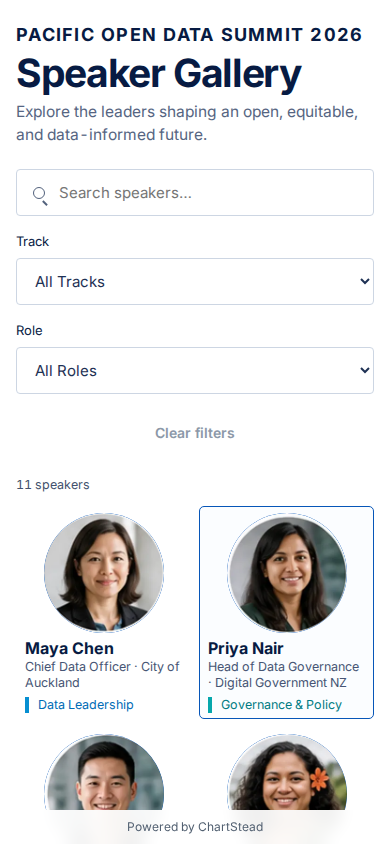
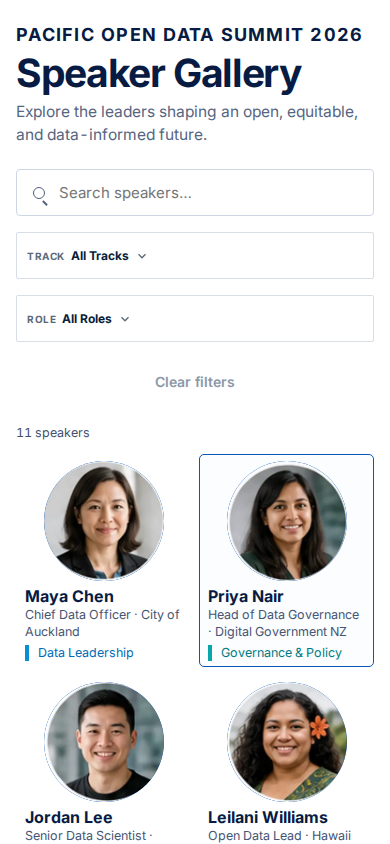
Use Base UI selects across public embeds

diff --git a/src/PublicProgramRenderer.tsx b/src/PublicProgramRenderer.tsx
@@ -467,117 +467,21 @@ export function PublicProgramRenderer({
             }
           />
         </label>
-        {currentWidget !== "sessions" ? <label>
-          Day
-          <select
-            id="program-day-filter"
-            value={filters.day ?? ""}
-            onChange={(event) =>
-              setFilters((current) => ({
-                ...current,
-                day: event.target.value || undefined,
-              }))
-            }
-          >
-            <option value="">All days</option>
-            {days.map((day) => (
-              <option key={day} value={day}>
-                {day === "tbd" ? "Time TBD" : dayLabel(day)}
-              </option>
-            ))}
-          </select>
-        </label> : null}
+        {currentWidget !== "sessions" ? <AppSelect label="Day" value={filters.day ?? ""} options={[{ value: "", label: "All days" }, ...days.map((day) => ({ value: day, label: day === "tbd" ? "Time TBD" : dayLabel(day) }))]} onValueChange={(value) => setFilters((current) => ({ ...current, day: value || undefined }))} /> : null}
         {currentWidget === "sessions" ? <AppSelect
           label="Track"
           value={filters.trackId ?? ""}
           options={[{ value: "", label: "All tracks" }, ...data.event.tracks.map((track) => ({ value: track.id, label: track.name }))]}
           onValueChange={(value) => setFilters((current) => ({ ...current, trackId: value || undefined }))}
-        /> : <label>
-          Track
-          <select
-            id="program-track-filter"
-            value={filters.trackId ?? ""}
-            onChange={(event) =>
-              setFilters((current) => ({
-                ...current,
-                trackId: event.target.value || undefined,
-              }))
-            }
-          >
-            <option value="">All tracks</option>
-            {data.event.tracks.map((track) => (
-              <option key={track.id} value={track.id}>
-                {track.name}
-              </option>
-            ))}
-          </select>
-        </label>}
-        {currentWidget !== "sessions" ? <label>
-          Location
-          <select
-            id="program-location-filter"
-            value={filters.roomId ?? ""}
-            onChange={(event) =>
-              setFilters((current) => ({
-                ...current,
-                roomId: event.target.value || undefined,
-              }))
-            }
-          >
-            <option value="">All rooms</option>
-            {data.event.rooms.map((room) => (
-              <option key={room.id} value={room.id}>
-                {room.name}
-              </option>
-            ))}
-            <option value="tbd">Location pending</option>
-          </select>
-        </label> : null}
+        /> : <AppSelect label="Track" value={filters.trackId ?? ""} options={[{ value: "", label: "All tracks" }, ...data.event.tracks.map((track) => ({ value: track.id, label: track.name }))]} onValueChange={(value) => setFilters((current) => ({ ...current, trackId: value || undefined }))} />}
+        {currentWidget !== "sessions" ? <AppSelect label="Location" value={filters.roomId ?? ""} options={[{ value: "", label: "All rooms" }, ...data.event.rooms.map((room) => ({ value: room.id, label: room.name })), { value: "tbd", label: "Location pending" }]} onValueChange={(value) => setFilters((current) => ({ ...current, roomId: value || undefined }))} /> : null}
         {currentWidget === "sessions" ? <AppSelect
           label="Session type"
           value={filters.format ?? ""}
           options={[{ value: "", label: "All session types" }, ...formats.map((format) => ({ value: format, label: format }))]}
           onValueChange={(value) => setFilters((current) => ({ ...current, format: value || undefined }))}
-        /> : <label>
-          Format
-          <select
-            id="program-format-filter"
-            value={filters.format ?? ""}
-            onChange={(event) =>
-              setFilters((current) => ({
-                ...current,
-                format: event.target.value || undefined,
-              }))
-            }
-          >
-            <option value="">All formats</option>
-            {formats.map((format) => (
-              <option key={format} value={format}>
-                {format}
-              </option>
-            ))}
-          </select>
-        </label>}
-        {currentWidget !== "sessions" ? <label>
-          Speaker
-          <select
-            id="program-speaker-filter"
-            value={filters.speakerId ?? ""}
-            onChange={(event) =>
-              setFilters((current) => ({
-                ...current,
-                speakerId: event.target.value || undefined,
-              }))
-            }
-          >
-            <option value="">All speakers</option>
-            {data.speakers.map((speaker) => (
-              <option key={speaker.id} value={speaker.id}>
-                {speaker.name}
-              </option>
-            ))}
-          </select>
-        </label> : null}
+        /> : <AppSelect label="Format" value={filters.format ?? ""} options={[{ value: "", label: "All formats" }, ...formats.map((format) => ({ value: format, label: format }))]} onValueChange={(value) => setFilters((current) => ({ ...current, format: value || undefined }))} />}
+        {currentWidget !== "sessions" ? <AppSelect label="Speaker" value={filters.speakerId ?? ""} options={[{ value: "", label: "All speakers" }, ...data.speakers.map((speaker) => ({ value: speaker.id, label: speaker.name }))]} onValueChange={(value) => setFilters((current) => ({ ...current, speakerId: value || undefined }))} /> : null}
         {currentWidget === "sessions" ? <Button type="button" className="sessions-clear" onClick={() => setFilters(() => ({}))}>Clear filters</Button> : null}
       </section>}
 
@@ -729,7 +633,7 @@ function AgendaEmbedView({
 }
 
 function AgendaSelect({ label, value, options, all, onChange }: { label: string; value: string; options: string[][]; all: string; onChange: (value: string) => void }) {
-  return <label className="agenda-select"><span>{label}</span><select aria-label={label} value={value} onChange={(event) => onChange(event.target.value)}><option value="">{all}</option>{options.map(([optionValue, optionLabel]) => <option key={optionValue} value={optionValue}>{optionLabel}</option>)}</select></label>;
+  return <div className="agenda-select"><AppSelect label={label} value={value} options={[{ value: "", label: all }, ...options.map(([optionValue, optionLabel]) => ({ value: optionValue ?? "", label: optionLabel ?? optionValue ?? "" }))]} onValueChange={onChange} /></div>;
 }
 
 function SignalRailGallery({ data, mode, theme, fields, filters, speakers, selectedSpeaker, onSetFilters, onSelectSpeaker, onSelectSession }: {
@@ -751,8 +655,8 @@ function SignalRailGallery({ data, mode, theme, fields, filters, speakers, selec
         </header>
         <section className="signal-gallery-filters" aria-label="Program filters">
           <label className="signal-search"><span className="sr-only">Search speakers</span><input type="search" value={filters.query ?? ""} placeholder="Search speakers…" onChange={(event) => onSetFilters((current) => ({ ...current, query: event.target.value || undefined }))} /></label>
-          <label>Track<select value={filters.trackId ?? ""} onChange={(event) => onSetFilters((current) => ({ ...current, trackId: event.target.value || undefined }))}><option value="">All Tracks</option>{data.event.tracks.map((track) => <option key={track.id} value={track.id}>{track.name}</option>)}</select></label>
-          <label>Role<select value={filters.role ?? ""} onChange={(event) => onSetFilters((current) => ({ ...current, role: event.target.value || undefined }))}><option value="">All Roles</option>{Array.from(new Set(data.speakers.map((speaker) => speaker.title).filter(Boolean))).map((role) => <option key={role} value={role ?? ""}>{role}</option>)}</select></label>
+          <AppSelect label="Track" value={filters.trackId ?? ""} options={[{ value: "", label: "All Tracks" }, ...data.event.tracks.map((track) => ({ value: track.id, label: track.name }))]} onValueChange={(value) => onSetFilters((current) => ({ ...current, trackId: value || undefined }))} />
+          <AppSelect label="Role" value={filters.role ?? ""} options={[{ value: "", label: "All Roles" }, ...Array.from(new Set(data.speakers.map((speaker) => speaker.title).filter(Boolean))).map((role) => ({ value: role ?? "", label: role ?? "" }))]} onValueChange={(value) => onSetFilters((current) => ({ ...current, role: value || undefined }))} />
           <Button type="button" className="signal-clear-filters" disabled={!filters.query && !filters.trackId && !filters.role} onClick={() => onSetFilters(() => ({}))}>Clear filters</Button>
         </section>
         <p className="signal-gallery-count" role="status" aria-live="polite">{speakers.length} {countNoun(speakers.length, "speaker")}</p>
@@ -825,9 +729,9 @@ function IndexedItinerary({ data, sessions, filters, setFilters, days, formats, 
       <section className="itinerary-controls" aria-label="Program filters">
         <div className="itinerary-days" role="tablist" aria-label="Event day">{days.filter((day) => day !== "tbd").map((day) => <Button role="tab" aria-selected={activeDay === day} key={day} className={activeDay === day ? "is-active" : ""} onClick={() => update("day", day)}>{dayLabel(day)}</Button>)}</div>
         <label className="itinerary-search"><span aria-hidden="true">⌕</span><span className="sr-only">Search sessions or speakers</span><input type="search" value={filters.query ?? ""} placeholder="Search sessions, speakers, topics..." onChange={(event) => update("query", event.target.value)} /></label>
-        <label><span className="sr-only">Track</span><select aria-label="Track" value={filters.trackId ?? ""} onChange={(event) => update("trackId", event.target.value)}><option value="">Track</option>{data.event.tracks.map((track) => <option key={track.id} value={track.id}>{track.name}</option>)}</select></label>
-        <label><span className="sr-only">Location</span><select aria-label="Location" value={filters.roomId ?? ""} onChange={(event) => update("roomId", event.target.value)}><option value="">Room</option>{data.event.rooms.map((room) => <option key={room.id} value={room.id}>{room.name}</option>)}<option value="tbd">Location pending</option></select></label>
-        <label><span className="sr-only">Format</span><select aria-label="Format" value={filters.format ?? ""} onChange={(event) => update("format", event.target.value)}><option value="">Session type</option>{formats.map((format) => <option key={format}>{format}</option>)}</select></label>
+        <AppSelect label="Track" value={filters.trackId ?? ""} options={[{ value: "", label: "Track" }, ...data.event.tracks.map((track) => ({ value: track.id, label: track.name }))]} onValueChange={(value) => update("trackId", value)} hideLabel />
+        <AppSelect label="Location" value={filters.roomId ?? ""} options={[{ value: "", label: "Room" }, ...data.event.rooms.map((room) => ({ value: room.id, label: room.name })), { value: "tbd", label: "Location pending" }]} onValueChange={(value) => update("roomId", value)} hideLabel />
+        <AppSelect label="Format" value={filters.format ?? ""} options={[{ value: "", label: "Session type" }, ...formats.map((format) => ({ value: format, label: format }))]} onValueChange={(value) => update("format", value)} hideLabel />
         <Button className="itinerary-clear" type="button" onClick={clearFilters}>Clear filters</Button>
       </section>
       {sessions.length === 0 ? <p className="itinerary-empty" role="status">No sessions match these filters.</p> : <div className="itinerary-grid-wrap">

diff --git a/test/ui/public-program.test.tsx b/test/ui/public-program.test.tsx
@@ -1,4 +1,4 @@
-import { cleanup, render, screen, within } from "@testing-library/react";
+import { cleanup, render, screen, waitFor, within } from "@testing-library/react";
 import userEvent from "@testing-library/user-event";
 import { QueryClient, QueryClientProvider } from "@tanstack/react-query";
 import {
@@ -135,6 +135,14 @@ afterEach(() => {
   vi.unstubAllGlobals();
 });
 
+async function chooseOption(user: ReturnType<typeof userEvent.setup>, label: string, option: string) {
+  const trigger = screen.getByRole("combobox", { name: label });
+  await waitFor(() => expect(trigger).toHaveAttribute("aria-expanded", "false"));
+  await user.click(trigger);
+  await user.click(await screen.findByRole("option", { name: option }));
+  await waitFor(() => expect(trigger).toHaveAttribute("aria-expanded", "false"));
+}
+
 describe("PublicProgramRenderer", () => {
   it("keeps itinerary state controlled across sessions, agenda, and itinerary widgets", async () => {
     const user = userEvent.setup();
@@ -215,11 +223,11 @@ describe("PublicProgramRenderer", () => {
     expect(screen.getByRole("group", { name: "Event day" })).toBeInTheDocument();
     expect(screen.getByRole("button", { name: /Save Opening Keynote to itinerary/ })).toHaveAttribute("aria-pressed", "false");
 
-    await user.selectOptions(screen.getByLabelText("Track"), "platform");
+    await chooseOption(user, "Track", "Platform");
     expect(screen.getByText("Opening Keynote")).toBeInTheDocument();
     expect(screen.queryByText("Community Circle")).not.toBeInTheDocument();
     await user.click(screen.getByRole("button", { name: "Clear filters" }));
-    expect(screen.getByLabelText("Track")).toHaveValue("");
+    expect(screen.getByRole("combobox", { name: "Track" })).toHaveTextContent("All");
     expect(screen.getByText("Opening Keynote")).toBeInTheDocument();
   });
 
@@ -234,9 +242,9 @@ describe("PublicProgramRenderer", () => {
     await user.click(save);
     expect(save).toHaveAttribute("aria-pressed", "true");
 
-    await user.selectOptions(screen.getByLabelText("Track"), "community");
+    await chooseOption(user, "Track", "Community");
     expect(within(screen.getByRole("grid", { name: "Schedule itinerary" })).queryByText("Opening Keynote")).not.toBeInTheDocument();
-    await user.selectOptions(screen.getByLabelText("Track"), "platform");
+    await chooseOption(user, "Track", "Platform");
     expect(screen.getAllByRole("button", { name: "Remove Opening Keynote from itinerary" })
       .some((button) => button.getAttribute("aria-pressed") === "true")).toBe(true);
   });
@@ -273,7 +281,7 @@ describe("PublicProgramRenderer", () => {
     expect(within(speakers()).getAllByText("Ada Lovelace").length).toBeGreaterThan(0);
     expect(within(speakers()).getAllByText("Grace Hopper").length).toBeGreaterThan(0);
 
-    await user.selectOptions(screen.getByLabelText("Track"), "platform");
+    await chooseOption(user, "Track", "Platform");
     expect(within(schedule()).getByText("Opening Keynote")).toBeInTheDocument();
     expect(within(schedule()).queryByText("Community Circle")).not.toBeInTheDocument();
     expect(within(speakers()).getAllByText("Ada Lovelace").length).toBeGreaterThan(0);
@@ -306,7 +314,7 @@ describe("PublicProgramRenderer", () => {
     expect(within(card).getByText("keynote")).toBeInTheDocument();
     expect(within(card).getByText("Platform")).toBeInTheDocument();
 
-    await user.selectOptions(screen.getByLabelText("Track"), "platform");
+    await chooseOption(user, "Track", "Platform");
     await user.type(screen.getByRole("searchbox", { name: "Search sessions or speakers" }), "Ada");
     await user.click(within(card).getByRole("button", { name: "Opening Keynote" }));
     const expand = within(card).getByRole("button", { name: "Show more" });
@@ -314,7 +322,7 @@ describe("PublicProgramRenderer", () => {
 
     expect(expand).toHaveAttribute("aria-expanded", "true");
     expect(within(card).getByText(longDescription)).toBeInTheDocument();
-    expect(screen.getByLabelText("Track")).toHaveValue("platform");
+    expect(screen.getByRole("combobox", { name: "Track" })).toHaveTextContent("Platform");
     expect(screen.getByRole("searchbox", { name: "Search sessions or speakers" })).toHaveValue(
       "Ada",
     );
@@ -338,13 +346,13 @@ describe("PublicProgramRenderer", () => {
     expect(screen.queryByTestId("public-session-card-ses-1")).not.toBeInTheDocument();
     expect(screen.getByRole("status")).toHaveTextContent("1 of 2 sessions");
 
-    await user.selectOptions(screen.getByLabelText("Track"), "community");
-    await user.selectOptions(screen.getByLabelText("Format"), "talk");
-    await user.selectOptions(screen.getByLabelText("Location"), "tbd");
+    await chooseOption(user, "Track", "Community");
+    await chooseOption(user, "Format", "talk");
+    await chooseOption(user, "Location", "Location pending");
     expect(screen.getByTestId("public-session-card-ses-2")).toBeInTheDocument();
     expect(screen.getByRole("status")).toHaveTextContent("1 of 2 sessions");
 
-    await user.selectOptions(screen.getByLabelText("Track"), "platform");
+    await chooseOption(user, "Track", "Platform");
     expect(screen.getByText("No sessions match these filters.")).toBeInTheDocument();
     expect(screen.getByRole("status")).toHaveTextContent("0 of 2 sessions");
   });

diff --git a/test/ui/agenda-embed-functional.test.tsx b/test/ui/agenda-embed-functional.test.tsx
@@ -1,4 +1,4 @@
-import { cleanup, render, screen, within } from "@testing-library/react";
+import { cleanup, render, screen, waitFor, within } from "@testing-library/react";
 import userEvent from "@testing-library/user-event";
 import { afterEach, describe, expect, it } from "vitest";
 
@@ -6,6 +6,14 @@ import { agendaEmbedFixtureData } from "../../src/AgendaEmbedFixture";
 import { PublicProgramRenderer } from "../../src/PublicProgramRenderer";
 
 afterEach(() => { cleanup(); localStorage.clear(); });
+
+async function chooseOption(user: ReturnType<typeof userEvent.setup>, label: string, option: string) {
+  const trigger = screen.getByRole("combobox", { name: label });
+  await waitFor(() => expect(trigger).toHaveAttribute("aria-expanded", "false"));
+  await user.click(trigger);
+  await user.click(await screen.findByRole("option", { name: option }));
+  await waitFor(() => expect(trigger).toHaveAttribute("aria-expanded", "false"));
+}
 
 describe("functional public agenda", () => {
   it("places sessions by real duration without collision and filters the grid", async () => {
@@ -18,7 +26,7 @@ describe("functional public agenda", () => {
     expect(workshop).toHaveAttribute("data-duration", "75");
     expect(Number(workshop.getAttribute("data-grid-span"))).toBeGreaterThan(Number(keynote.getAttribute("data-grid-span")));
 
-    await user.selectOptions(screen.getByLabelText("Track"), "capacity");
+    await chooseOption(user, "Track", "Capacity Building");
     expect(within(grid).getByText("From Open Data to Public Value")).toBeInTheDocument();
     expect(within(grid).queryByText("Public Infrastructure for Everyone")).not.toBeInTheDocument();
     await user.click(screen.getByRole("button", { name: "Clear filters" }));

diff --git a/src/styles.css b/src/styles.css
@@ -10202,3 +10202,10 @@ body:has(.agenda-auto-scope) .app-select-popup-toolbar {
 .widget-sessions .program-search-field { height: 48px; padding-left: 0 !important; }
 .widget-sessions .program-search-field input { height: 48px; padding: 0 12px 0 42px; border: 1px solid #cfd8e6; border-radius: 4px; }
 .widget-sessions .sessions-search-icon { left: 14px; top: 11px; }
+.program-filters > .app-select,
+.agenda-select .app-select,
+.signal-gallery-filters > .app-select,
+.itinerary-controls > .app-select { min-width: 0; width: 100%; }
+.agenda-select .app-select-trigger,
+.itinerary-controls .app-select-trigger { width: 100%; min-height: 44px; background: #fff; }
+.signal-gallery-filters .app-select-trigger { width: 100%; min-height: 47px; background: #fff; }
